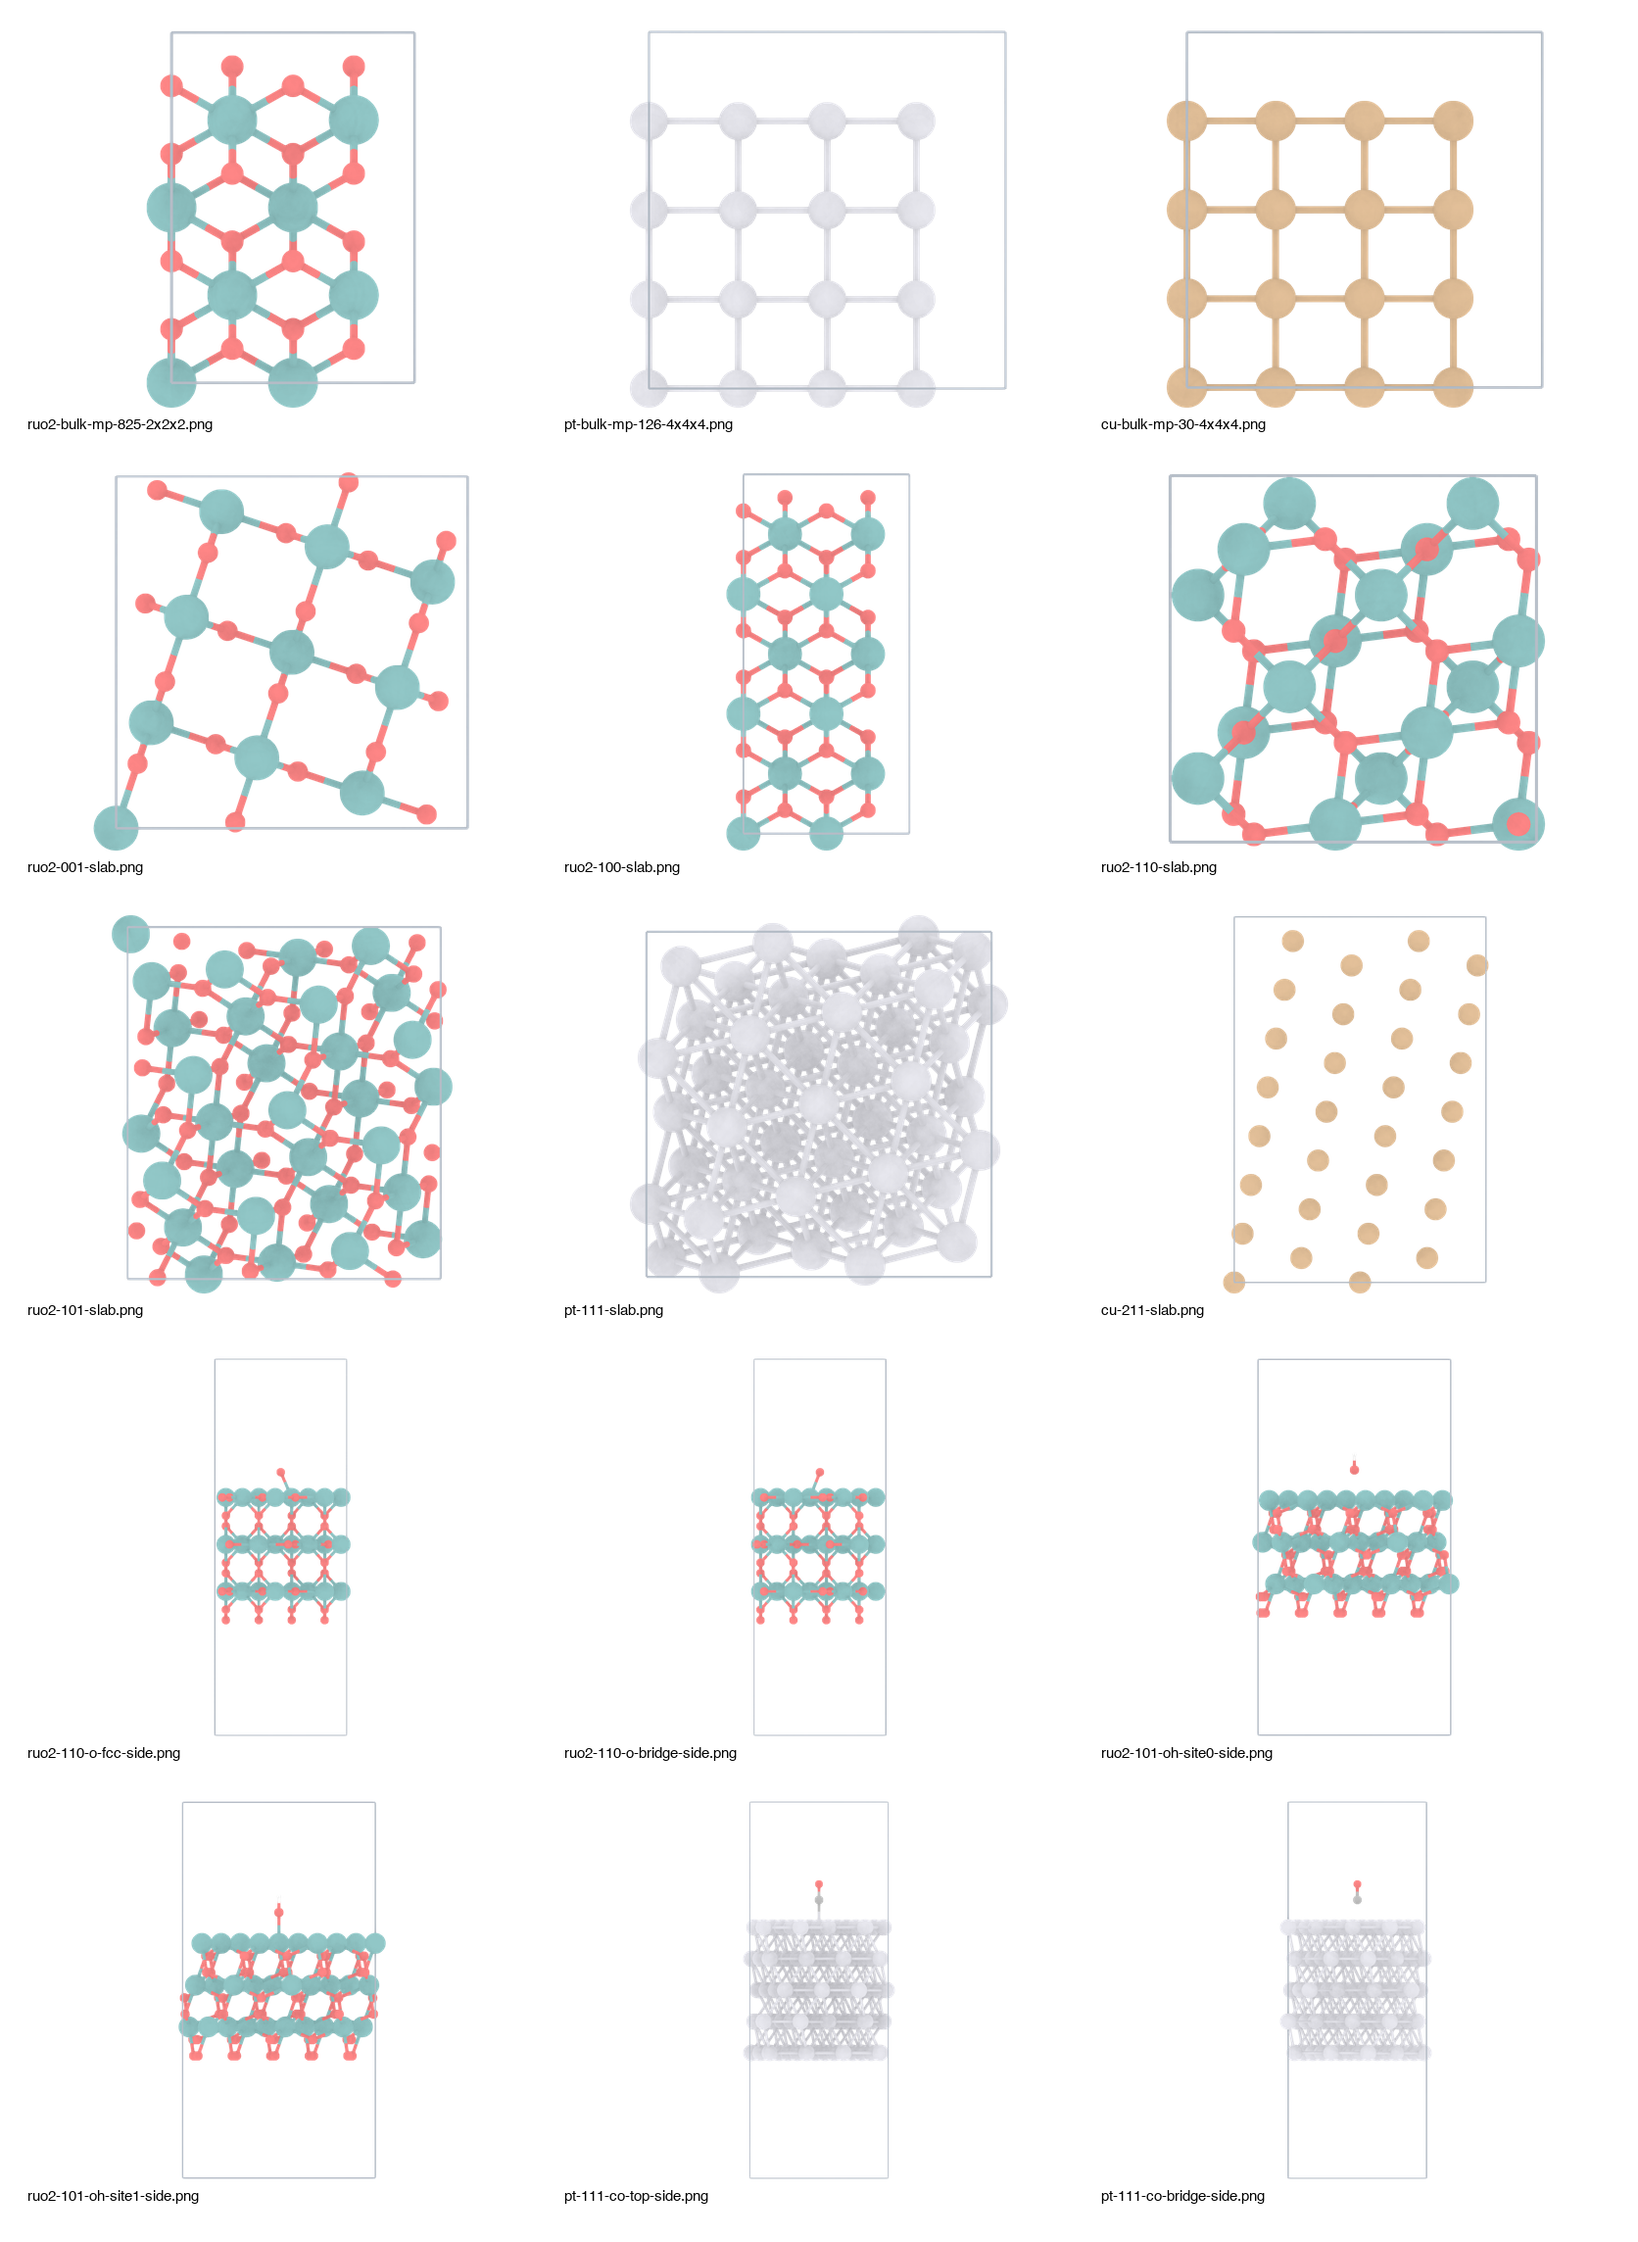
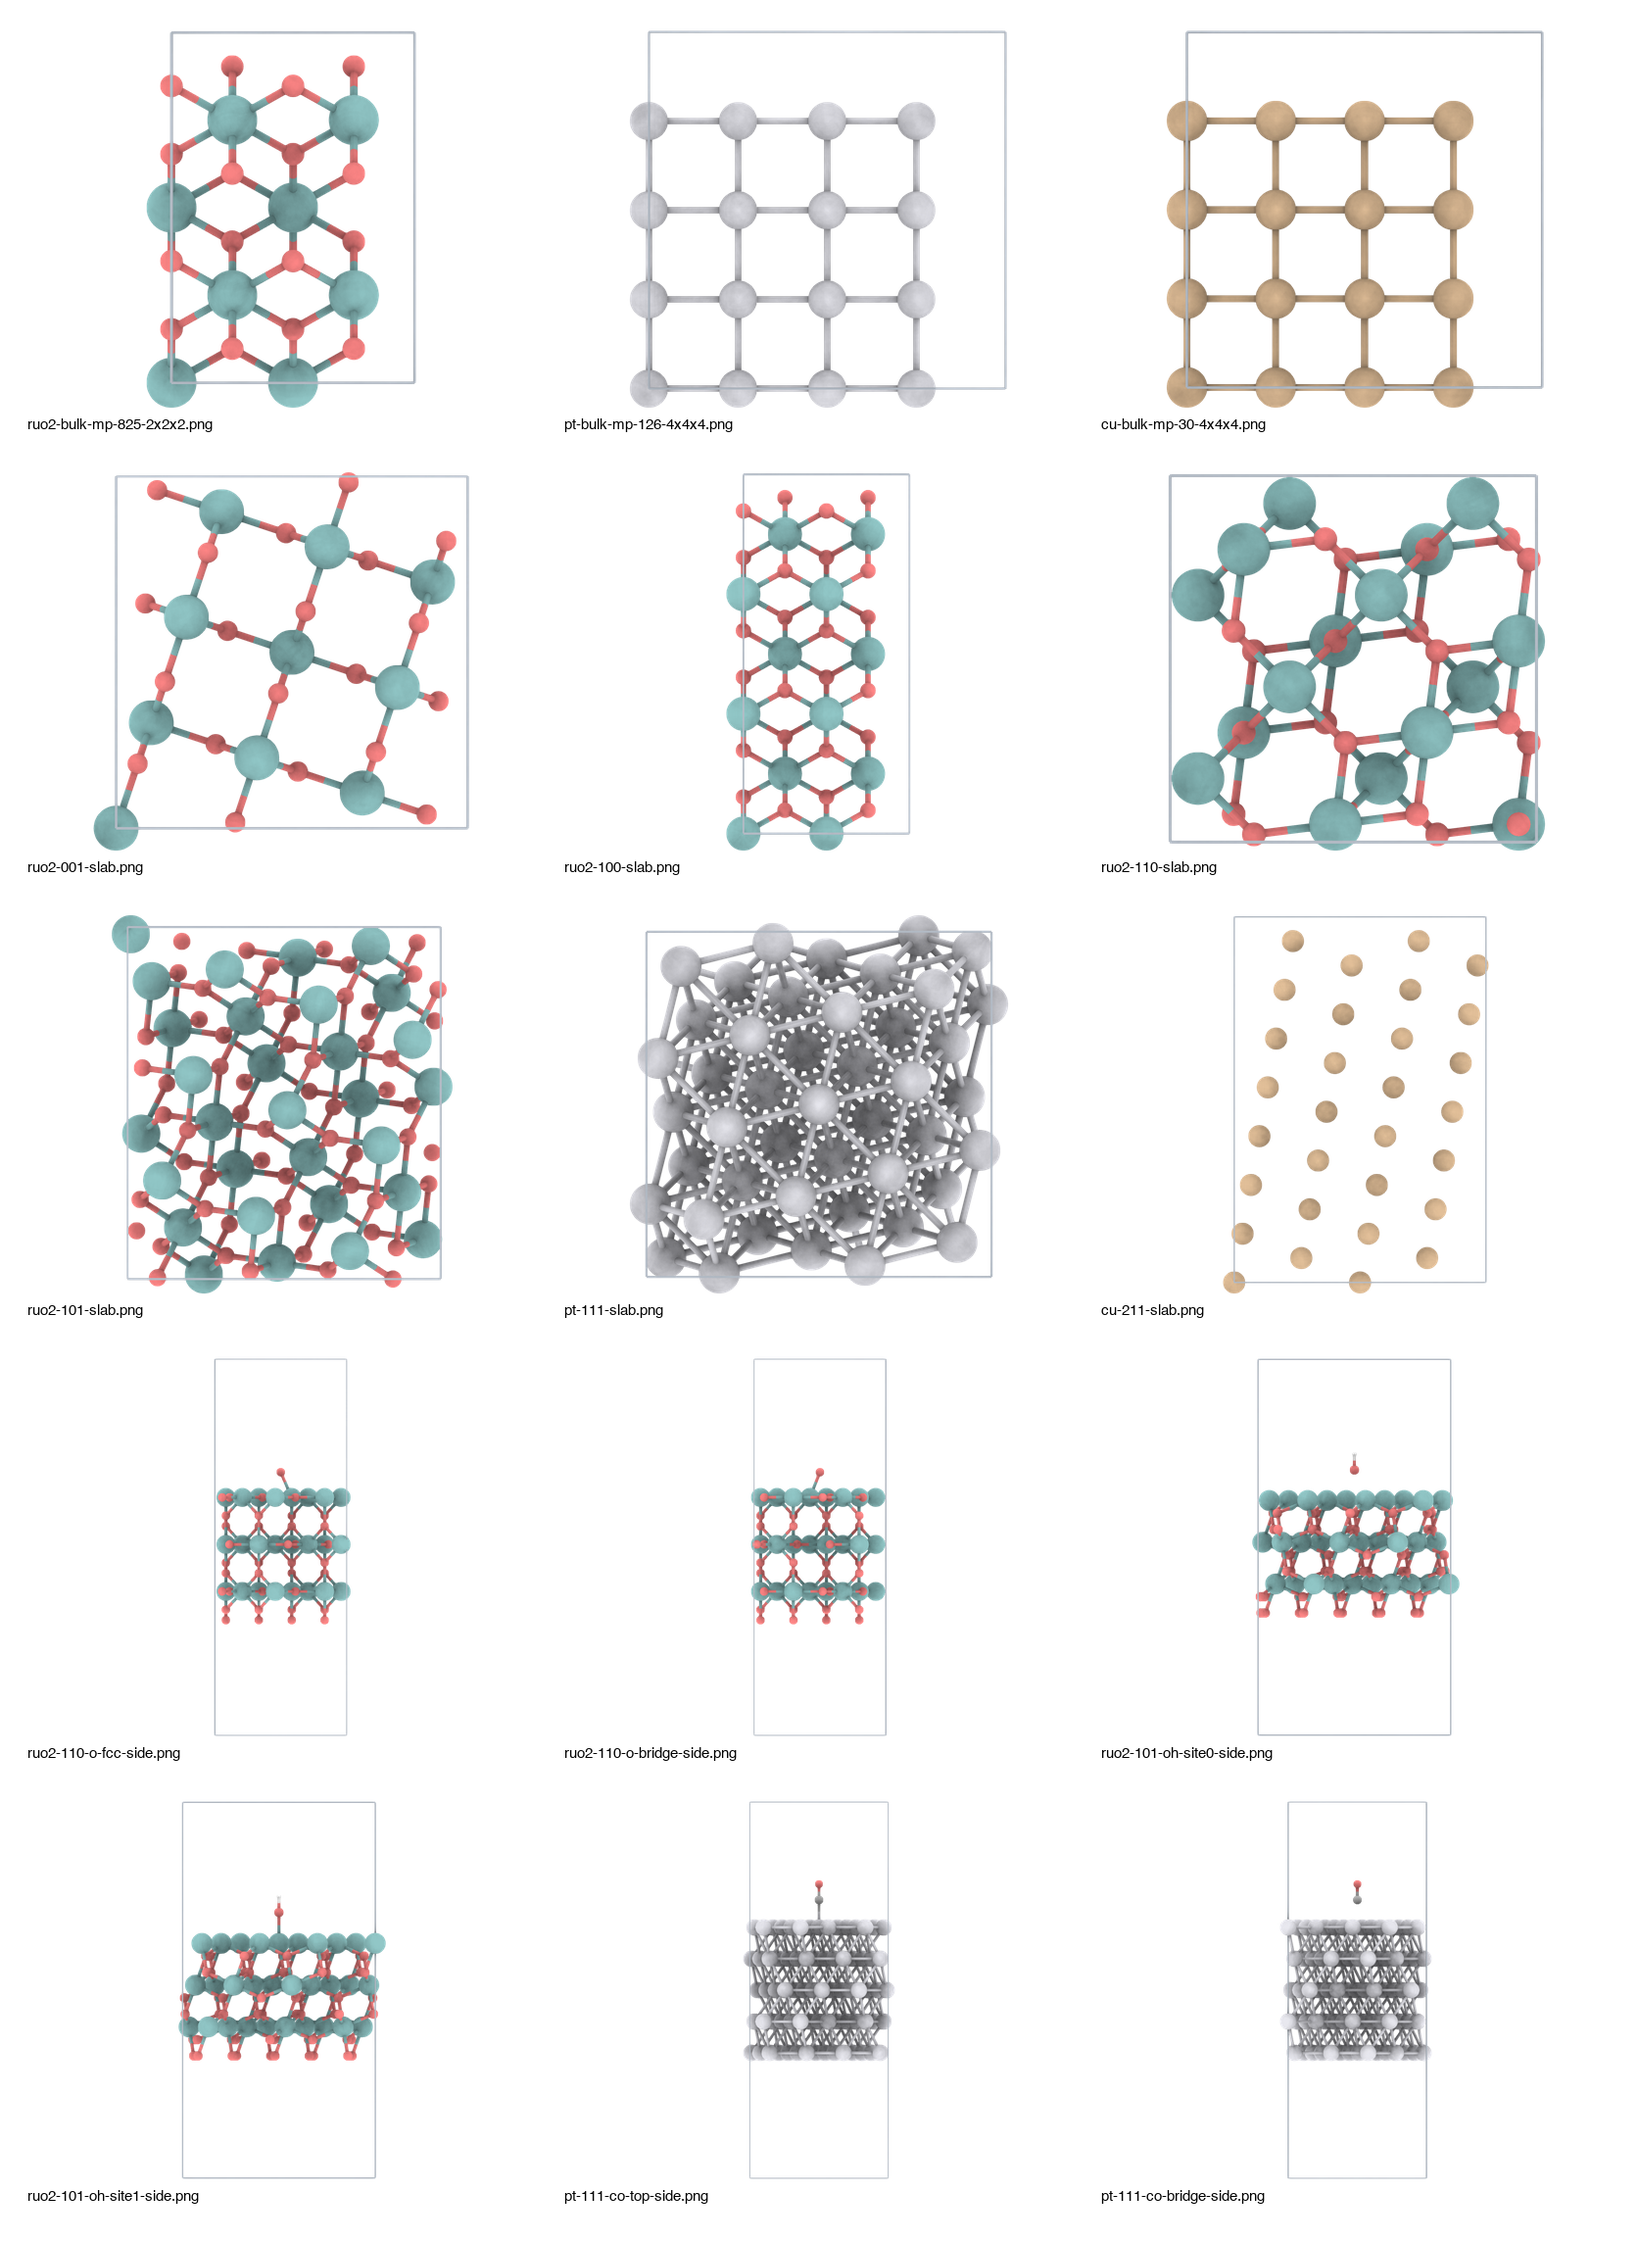
Balance export render quality

diff --git a/viewer/src/main.ts b/viewer/src/main.ts
@@ -28,6 +28,7 @@ let state = State.create();
 
 let initialCustom: Structure | undefined;
 let exportMode = false;
+const exportSampleTarget = 768;
 const hash = location.hash.slice(1, location.hash.length);
 
 if (hash) {
@@ -73,46 +74,54 @@ if (initialCustom) {
 }
 
 if (exportMode) {
-  for (let frame = 0; frame < 6; frame++) {
+  function exportLoop() {
     renderer.render(state);
+    if (renderer.sampleCount < exportSampleTarget) {
+      requestAnimationFrame(exportLoop);
+      return;
+    }
+    requestAnimationFrame(() => {
+      window.__speckExportReady = true;
+    });
   }
-  window.__speckExportReady = true;
+
+  exportLoop();
 } else {
-const pane = addPane();
-addRenderFolder({
-  pane,
-  renderer,
-  state,
-  onReset,
-});
-addShareFolder({ pane, renderer, state, canvas });
+  const pane = addPane();
+  addRenderFolder({
+    pane,
+    renderer,
+    state,
+    onReset,
+  });
+  addShareFolder({ pane, renderer, state, canvas });
 
-createMouseController({
-  renderer,
-  renderContainer,
-  state,
-  onReset,
-});
+  createMouseController({
+    renderer,
+    renderContainer,
+    state,
+    onReset,
+  });
 
-window.addEventListener("resize", () => {
-  state.windowResolution = {
-    width: window.innerWidth,
-    height: window.innerHeight,
-  };
-  state.aspect = window.innerWidth / window.innerHeight;
-  renderer.setResolution(state);
-  needReset = true;
-});
+  window.addEventListener("resize", () => {
+    state.windowResolution = {
+      width: window.innerWidth,
+      height: window.innerHeight,
+    };
+    state.aspect = window.innerWidth / window.innerHeight;
+    renderer.setResolution(state);
+    needReset = true;
+  });
 
-function loop() {
-  if (needReset) {
-    renderer.reset();
-    needReset = false;
+  function loop() {
+    if (needReset) {
+      renderer.reset();
+      needReset = false;
+    }
+
+    renderer.render(state);
+    requestAnimationFrame(loop);
   }
 
-  renderer.render(state);
-  requestAnimationFrame(loop);
-}
-
-loop();
+  loop();
 }

diff --git a/README.md b/README.md
@@ -6,7 +6,7 @@ The renderer wraps the `modern-speck` WebGL viewer, adds `ase-ts` structure IO, 
 
 ## Example Output
 
-These examples were generated from RuO2 slabs, Pt/Cu bulk and slabs, and adsorbate slabs with the current defaults: bond threshold `1.05`, compact atom scale, visible unit cells, transparent PNG export, and white background only for this README preview.
+These examples were generated from RuO2 slabs, Pt/Cu bulk and slabs, and adsorbate slabs with the current defaults: bond threshold `1.05`, compact atom scale, visible unit cells, bounded 768-sample PNG export, and white background only for this README preview.
 
 ![RuO2, Pt, Cu slab and adsorbate render examples](docs/images/mesa-examples-cutoff-1p05-small-atoms.png)
 
@@ -54,5 +54,5 @@ node dist/src/cli.js render \
 - Bond inference cutoff: `1.05 * (radiusA + radiusB)`.
 - Viewer bond threshold: `1.05`.
 - Default viewer atom scale: `0.5`.
-- PNG export uses transparent background by default when requested.
-- Export mode renders a bounded frame count and exits, instead of running the interactive viewer loop continuously.
+- PNG export uses transparent background when requested.
+- Export mode accumulates 768 samples for smooth AO/depth, then exits instead of running the interactive viewer loop continuously.
